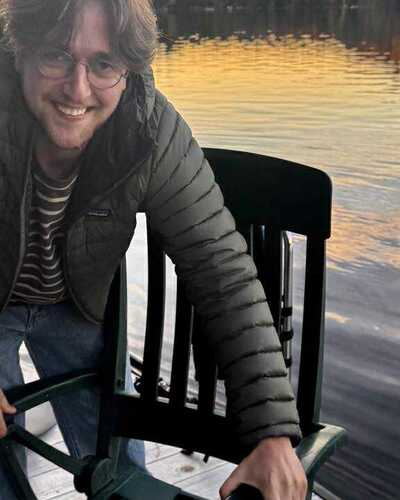
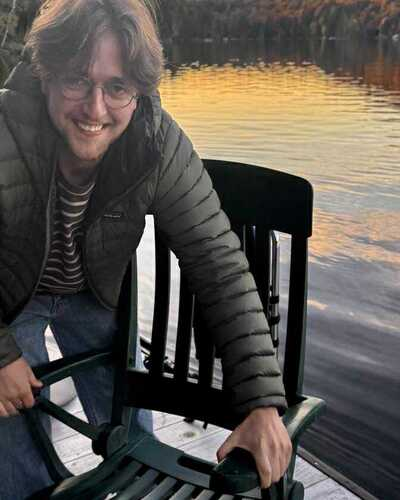
Adjust photo crop and clarify research description
- Widen photo crop to show more context and background
- Clarify that AI governance research is a doctoral project interest
- Emphasize contribution (not lead authorship) to SSCR publication
- Focus bio on research interests rather than active research

diff --git a/index.html b/index.html
@@ -343,10 +343,10 @@
             <div class="hero-content">
                 <h2>À propos</h2>
                 <p>
-                    Étudiant à la maîtrise en science politique à l'Université Laval, je m'intéresse à la gouvernance de l'intelligence artificielle et à l'influence des acteurs industriels dans les débats législatifs. Ma recherche combine analyse critique du discours et méthodes computationnelles pour examiner comment se construit la notion d'intérêt public dans les politiques d'IA au Canada, en Europe et aux États-Unis.
+                    Étudiant à la maîtrise en science politique à l'Université Laval, mes intérêts de recherche portent sur la gouvernance de l'intelligence artificielle et l'influence des acteurs industriels dans les débats législatifs. Mon projet de recherche doctorale vise à combiner analyse critique du discours et méthodes computationnelles pour examiner comment se construit la notion d'intérêt public dans les politiques d'IA au Canada, en Europe et aux États-Unis.
                 </p>
                 <p>
-                    Formé en sciences sociales numériques, je développe en R et utilise des approches mixtes (qualitatives et quantitatives) pour analyser les discours législatifs. J'ai contribué à des publications dans <em>Social Science Computer Review</em> et collabore avec la Chaire de leadership en enseignement en sciences sociales numériques de l'Université Laval.
+                    Formé en sciences sociales numériques, je développe en R et utilise des approches mixtes (qualitatives et quantitatives). J'ai contribué à des publications dans <em>Social Science Computer Review</em> et collabore avec la Chaire de leadership en enseignement en sciences sociales numériques de l'Université Laval.
                 </p>
             </div>
         </div>

diff --git a/index_en.html b/index_en.html
@@ -343,10 +343,10 @@
             <div class="hero-content">
                 <h2>About</h2>
                 <p>
-                    Master's student in Political Science at Université Laval, I study AI governance and the influence of industry actors in legislative debates. My research combines critical discourse analysis and computational methods to examine how the notion of public interest is constructed in AI policy across Canada, Europe, and the United States.
+                    Master's student in Political Science at Université Laval, my research interests focus on AI governance and the influence of industry actors in legislative debates. My doctoral research project aims to combine critical discourse analysis and computational methods to examine how the notion of public interest is constructed in AI policy across Canada, Europe, and the United States.
                 </p>
                 <p>
-                    Trained in digital social sciences, I develop in R and use mixed methods (qualitative and quantitative) to analyze legislative discourse. I have contributed to publications in <em>Social Science Computer Review</em> and collaborate with the Chair for Leadership in Teaching Digital Social Sciences at Université Laval.
+                    Trained in digital social sciences, I develop in R and use mixed methods (qualitative and quantitative). I have contributed to publications in <em>Social Science Computer Review</em> and collaborate with the Chair for Leadership in Teaching Digital Social Sciences at Université Laval.
                 </p>
             </div>
         </div>
